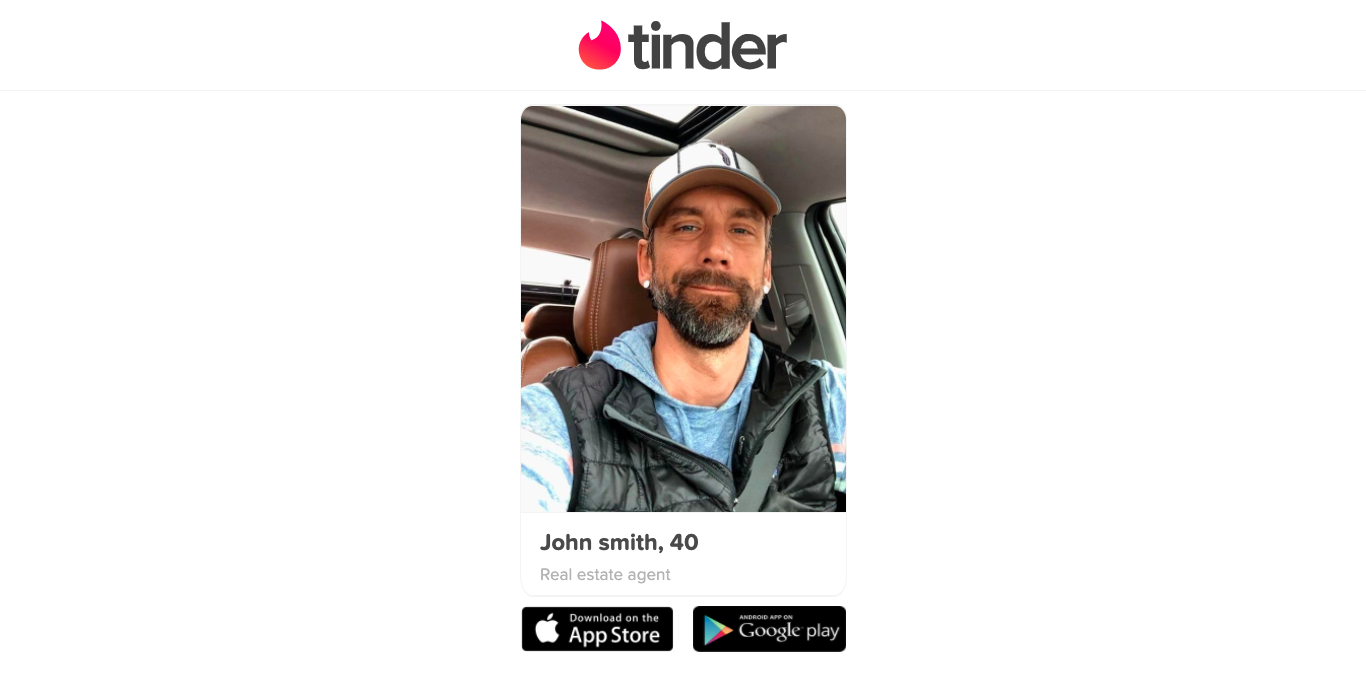
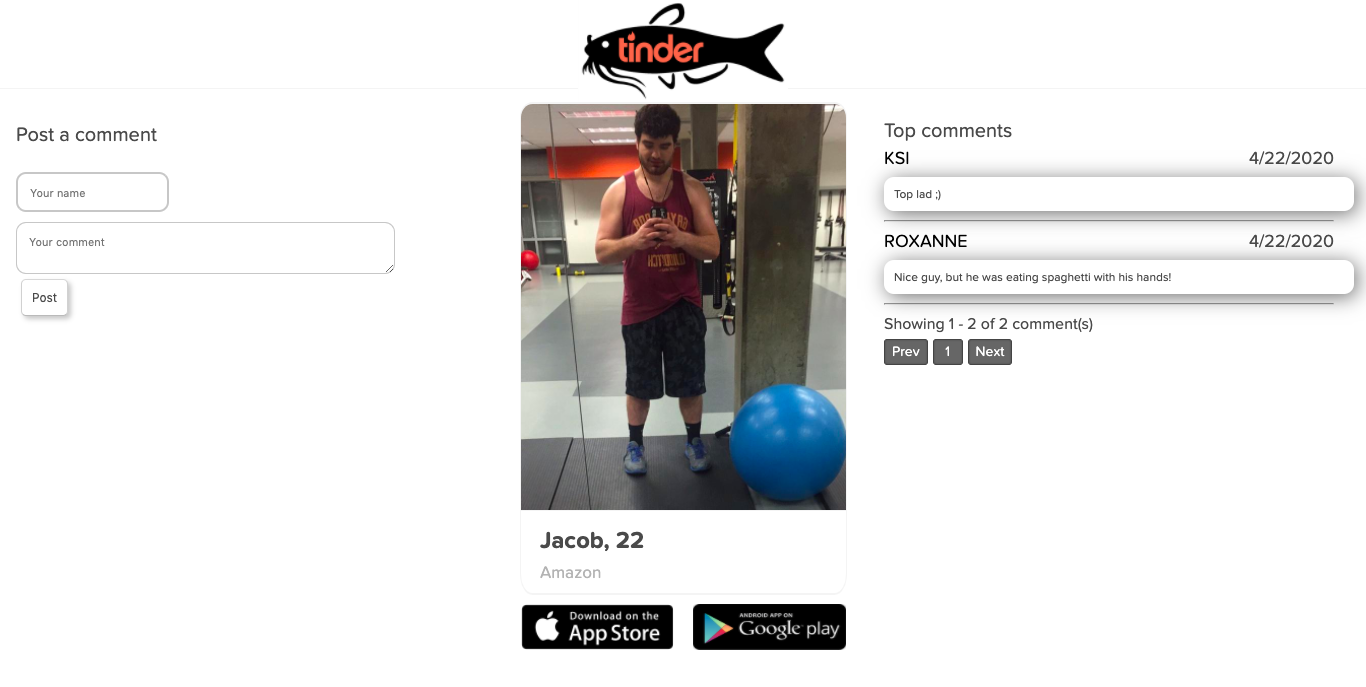
updated theme

diff --git a/_posts/2020-03-26-catfish.md b/_posts/2020-03-26-catfish.md
@@ -23,9 +23,17 @@ Without this chrome extension installed, a Tinder profile page looks like this:
     <figcaption>A Tinder profile page</figcaption>
 </figure>
 
+The chrome extension I have written (TinderCatfish) detects whenever you visit one of the pages, and manipulates the DOM content and injects some extra javascript on the page, to rewrite it to look like this:
+
+<figure  style="text-align:center">
+    <img src="/images/catfish/1.png" alt="TinderCatfish profile url page">
+    <figcaption>A TinderCatfish profile page</figcaption>
+</figure>
 
 
-The idea is that anyone can now leave feedback, comments, or reviews on anyone elses tinder profile. Everything that is posted is persisted in a MongoDB cluster, so anyone else using the extension will be able to see the comments when visiting the same profile page.
+
+
+Obviously, the picture above shows another persons profile. The idea is that anyone can now leave feedback, comments, or reviews on anyone elses tinder profile. Everything that is posted is persisted in a MongoDB cluster, so anyone else using the extension will be able to see the comments when visiting the same profile page.
 
 One of the biggest reasons why I was motivated to do this is after the death of Grace Millane, it really highlighted how there is a lot big safety issue and potential dangers in online dating, especially since usually youre by yourself and meeting a complete stranger. Having some assurances and feedback left by other people would definetely allow people to feel more comfortable and also hopefully encourage new people who were previosuly apprehensive about using Tinder for this reason.
 
